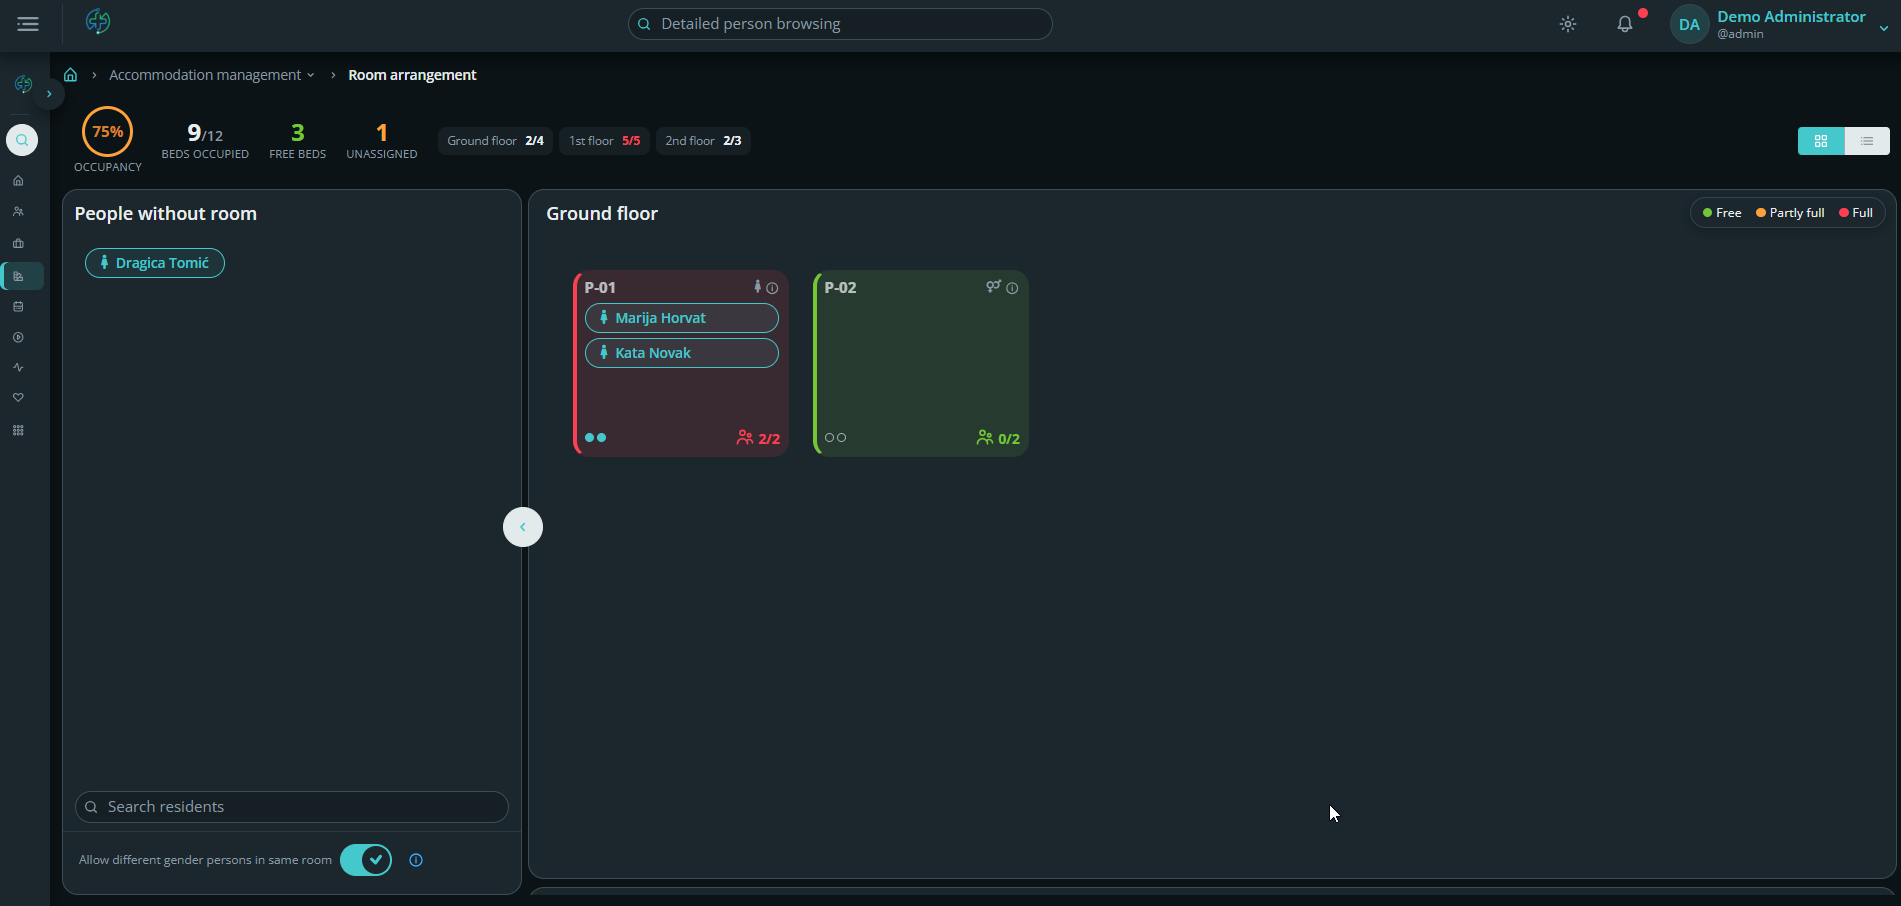
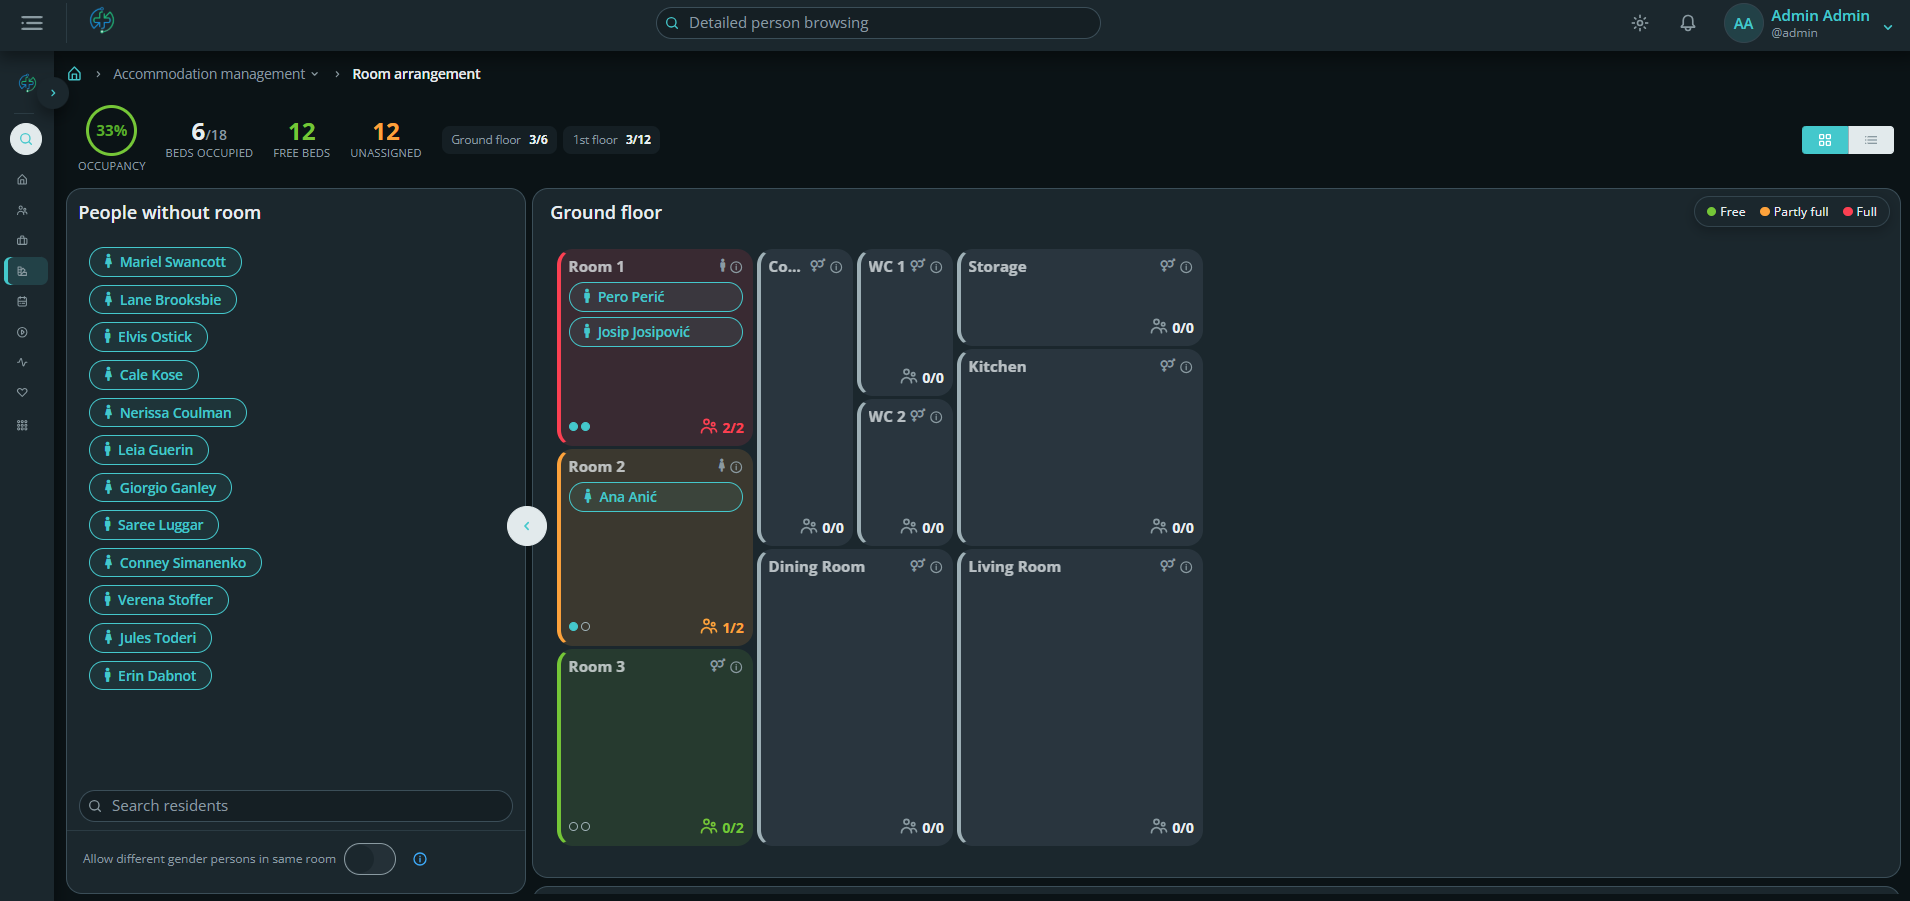
Fixes

diff --git a/ngx-nursing-home/src/app/pages/medical-profile/add-edit-insurance/add-edit-insurance.component.html b/ngx-nursing-home/src/app/pages/medical-profile/add-edit-insurance/add-edit-insurance.component.html
@@ -17,7 +17,17 @@
       <div class="row mb-2">
         <div class="col-md-8">
           <div class="form-group">
-            <div class="label">{{ getString("insuranceCompany") }}</div>
+            <div class="label">
+              {{ getString("insuranceCompany") }}
+              <nb-icon
+                pack="eva"
+                icon="alert-circle-outline"
+                status="danger"
+                size="small"
+                class="ms-1 required-mark"
+                [nbTooltip]="getString('required')"
+              ></nb-icon>
+            </div>
             <div class="value">
               <input
                 nbInput
@@ -25,6 +35,9 @@
                 [placeholder]="getString('insuranceCompany')"
                 name="insuranceCompany"
                 [(ngModel)]="item.InsuranceCompany"
+                required
+                #insuranceCompanyCtrl="ngModel"
+                [status]="insuranceCompanyCtrl.dirty ? (insuranceCompanyCtrl.invalid ? 'danger' : 'success') : 'basic'"
               />
             </div>
           </div>
@@ -52,7 +65,17 @@
       <div class="row mb-2">
         <div class="col-md-6">
           <div class="form-group">
-            <div class="label">{{ getString("policyNumber") }}</div>
+            <div class="label">
+              {{ getString("policyNumber") }}
+              <nb-icon
+                pack="eva"
+                icon="alert-circle-outline"
+                status="danger"
+                size="small"
+                class="ms-1 required-mark"
+                [nbTooltip]="getString('required')"
+              ></nb-icon>
+            </div>
             <div class="value">
               <input
                 nbInput
@@ -60,6 +83,9 @@
                 [placeholder]="getString('policyNumber')"
                 name="policyNumber"
                 [(ngModel)]="item.PolicyNumber"
+                required
+                #policyNumberCtrl="ngModel"
+                [status]="policyNumberCtrl.dirty ? (policyNumberCtrl.invalid ? 'danger' : 'success') : 'basic'"
               />
             </div>
           </div>
@@ -159,6 +185,7 @@
       shape="round"
       size="small"
       (click)="save()"
+      [disabled]="insuranceForm.invalid"
     >
       {{ getString("save") }}
     </button>

diff --git a/ngx-nursing-home/src/app/services/interceptor.service.ts b/ngx-nursing-home/src/app/services/interceptor.service.ts
@@ -44,21 +44,23 @@ export class InterceptorService implements HttpInterceptor {
   }
 
   intercept(req: HttpRequest<any>, next: HttpHandler): Observable<any> {
-    const authReq = req.clone({
-      headers: req.headers
-        .set("Authorization", "Bearer " + this._authService.getToken())
-        .set("Request-Date", new Date().toISOString()),
-      url:
-        req.url.substring(0, 3) === "api"
-          ? `${this._apiBaseUrl}/${req.url}`
-          : req.url,
-    });
+    // external calls (e.g. RxNorm) pass through untouched — no auth header/rewrite/error handling
+    const isAppApi = req.url.substring(0, 3) === "api";
 
-    // send cloned request with header to the next handler.
+    const authReq = isAppApi
+      ? req.clone({
+          headers: req.headers
+            .set("Authorization", "Bearer " + this._authService.getToken())
+            .set("Request-Date", new Date().toISOString()),
+          url: `${this._apiBaseUrl}/${req.url}`,
+        })
+      : req;
+
     return next.handle(authReq).pipe(
       tap(
         (event) => {},
         (error) => {
+          if (!isAppApi) return;
           console.error(error);
 
           if (error.url.indexOf("/auth/") === -1) {

diff --git a/ngx-nursing-home/src/app/@theme/theme.module.ts b/ngx-nursing-home/src/app/@theme/theme.module.ts
@@ -44,6 +44,7 @@ import { NotificationsPaneComponent } from "./components/header/notifications-pa
 import { FormsModule } from "@angular/forms";
 import { UserInfoPaneComponent } from "./components/header/user-info-pane/user-info-pane.component";
 import { SharedComponentsModule } from "shared-components";
+import { DisableAutocompleteDirective } from "./directives/disable-autocomplete.directive";
 
 const NB_MODULES = [
   NbLayoutModule,
@@ -83,11 +84,12 @@ const COMPONENTS = [
 
 @NgModule({
   imports: [CommonModule, ...NB_MODULES],
-  exports: [CommonModule, ...COMPONENTS],
+  exports: [CommonModule, ...COMPONENTS, DisableAutocompleteDirective],
   declarations: [
     ...COMPONENTS,
     NotificationsPaneComponent,
     UserInfoPaneComponent,
+    DisableAutocompleteDirective,
   ],
 })
 export class ThemeModule {

diff --git a/ngx-nursing-home/src/environments/environment.ts b/ngx-nursing-home/src/environments/environment.ts
@@ -41,7 +41,7 @@ export const environment = {
   sidebarConfig: SidebarStates.COMPACT,
   configFile: "assets/config/config.json",
   translationFile: "assets/resources/strings-en.json",
-  locale: "hr",
+  locale: "en",
   notificationAllType: notificationAllType,
   brand: Brand,
   colors: Colors,

diff --git a/ngx-nursing-home/src/app/@theme/directives/disable-autocomplete.directive.ts b/ngx-nursing-home/src/app/@theme/directives/disable-autocomplete.directive.ts
@@ -1,0 +1,8 @@
+import { Directive, HostBinding } from "@angular/core";
+
+@Directive({
+  selector: "input:not([autocomplete]), textarea:not([autocomplete])",
+})
+export class DisableAutocompleteDirective {
+  @HostBinding("attr.autocomplete") autocomplete = "off";
+}
